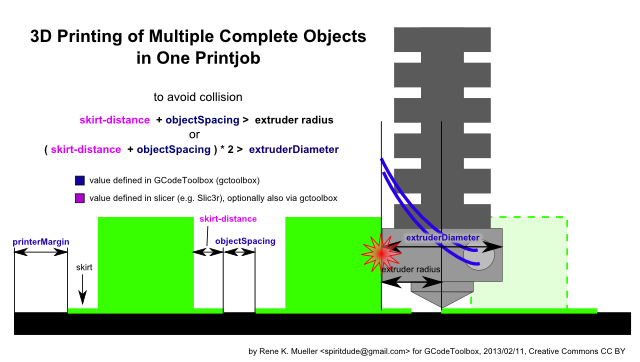
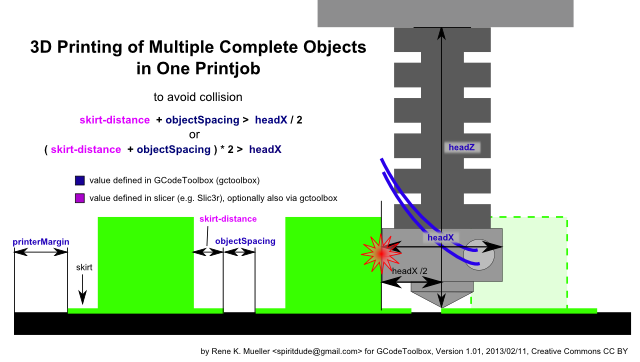
notion change, headX/Y/Z introduced, version bump to 0.009

diff --git a/README.md b/README.md
@@ -142,7 +142,8 @@ Right now <tt>gctoolbox</tt> concatenates pieces so they are printed individuall
 
 <img src="imgs/crash.png">
 
-<tt>gctoolbox</tt> prints out a warning if these conditions are not met, and increases objectSpacing so there is no collision; important is to set the extruderDiameter (extruder radius x 2) properly.
+<tt>gctoolbox</tt> prints out a warning if these conditions are not met, and increases objectSpacing so there is no collision; important is to set the headX & headY properly.
+By default headY = headX unless you define headY explicit as well. headZ defines the maxium objectZ to printed in this manner.
 
 <h3>Tests</h3>
 
